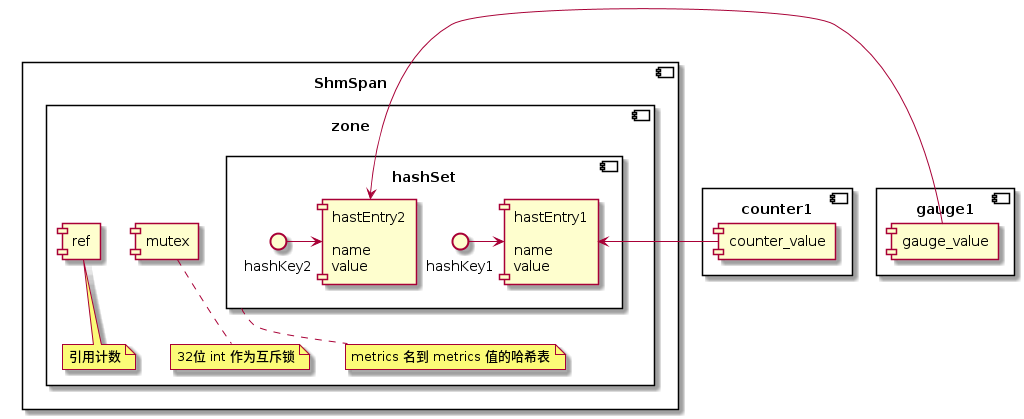
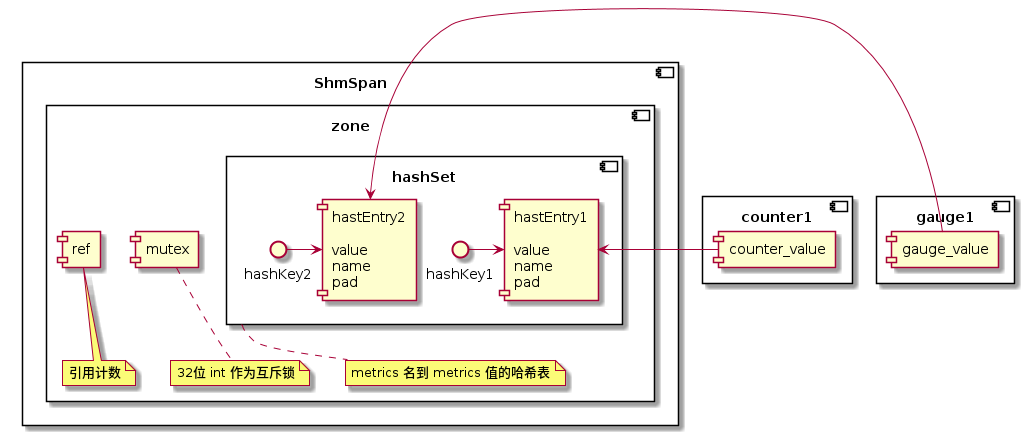
调整补充细节说明

diff --git a/content/zh/blog/posts/mosn-shm/index.md b/content/zh/blog/posts/mosn-shm/index.md
@@ -92,6 +92,32 @@ metrics 相关的逻辑在 `pkg/metrics` 包下。
 
 上文说的 ShmSpan 是保存共享内存信息的结构体，而要理解 MOSN metrics 对共享内存的使用，还要先理解 MOSN 封装的几个结构体：`zone`、`hashSet` 和 `hashEntry`。
 
+```go
+type zone struct {
+	span *shm.ShmSpan
+
+	
+	ref   *uint32
+
+	set *hashSet // mutex + ref = 64bit, so atomic ops has no problem
+}
+...
+type hashSet struct {
+	entry []hashEntry
+	meta  *meta
+	slots []uint32
+}
+...
+type hashEntry struct {
+	metricsEntry
+	next uint32
+
+	// Prevents false sharing on widespread platforms with
+	// 128 mod (cache line size) = 0 .
+	pad [128 - unsafe.Sizeof(metricsEntry{})%128 - 4]byte
+}
+```
+
 这几个结构体与 `ShmSpan` 的关系大致是这样的：
 
 ![](./shm.png)
@@ -103,6 +129,11 @@ metrics 相关的逻辑在 `pkg/metrics` 包下。
 - `zone` 对 `ShmSpan` 进行了划分，划分出了一个 `int32` 值作为互斥锁；一个 `int32` 值作为 `zone` 的引用计数；也划分出了一片空间保存 `hashSet`
 
 以上步骤做好后，创建一个 metrics 就可以通过创建对应的哈希 key value，拿到对应的共享内存地址，存取 metrics 信息。
+
+> ***实现小细节***
+> 
+> 1. hashEntry 内部有一个 `pad` 字段，其作用是保持 hashEntry 结构体大小是 128 的倍数，避免 false sharing
+> 2. 结构体内的字段顺序和大小是调整过的，比如 `hashEntry.value`、`zone.set`，目的是满足原子操作的内存对齐
 
 下面是源码步骤，大家可以自行跟踪调试：
 
@@ -366,16 +397,20 @@ func (z *zone) lock() {
 
 是通过设置进程 ID 来获取锁的，由此能看出 MOSN 的用意：**这个以文件作为 mmap 的共享内存是可以被多个 MOSN 进程共用的**。
 
-例如像同一台机器多个 MOSN 作为 sidecar 的场景，我们完全可以挂载宿主机同一个文件作为不同 sidecar 的共享内存文件映射，
-除了能达到 metrics 信息共享的效果外，也避免了 metrics 重复的内存占用，这里应该是有优化考虑在的。而且这个文件可以看作是一种文件格式，
-在任何时候都可以被持久化保存和提取分析使用的。
+例如 MOSN 支持跨容器热重启的场景，基于内存共享的 metrics 可以保证热重启过程中不出现指标抖动而造成监控异常。
+而且这个文件可以看作是一种文件格式，在任何时候都可以被持久化保存和提取分析使用的。
+
+当你不需要这个功能时，可以关闭内存共享 metrics 的配置即可，MOSN 会 fallback 到 go-metrics 的实现，该实现就是通过堆分配内存保存 metrics 信息。
 
 ## 总结
 
 本文通过分析 MOSN 源码，简述了 MOSN 的共享内存模型，分析了 MOSN 创建共享内存、配置 metrics 和 metrics 对共享内存块的使用。
+
+最后，**不鼓励在 Go 里面使用共享内存，除非你有明确的使用场景**，例如 MOSN 热升级场景下的 metrics 共享。
 
 ---
 
 参考资料:
 
 - [MOSN 源码](https://github.com/mosn/mosn)
+
